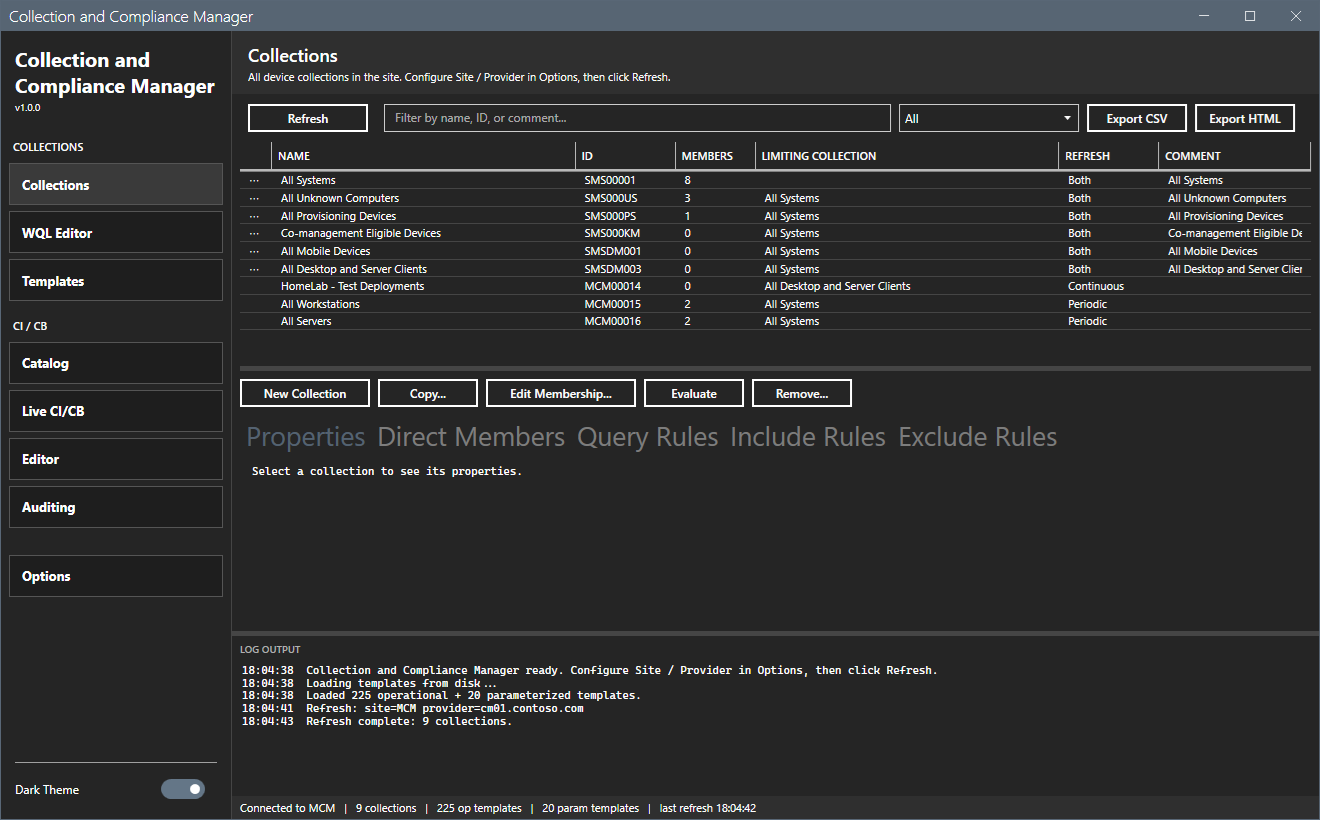
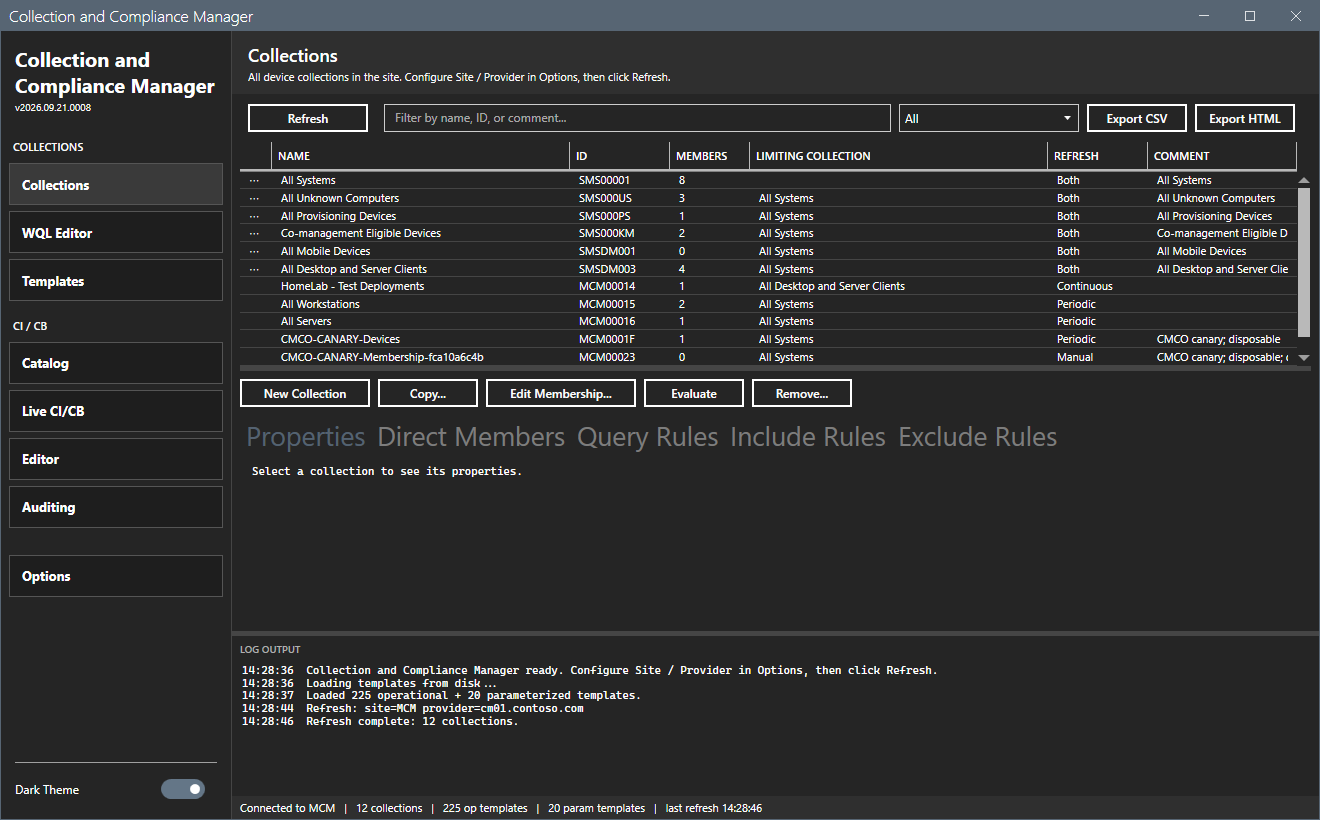
Use the launcher site code and provider when none is saved; update the screenshots; 2026.09.21.0008

diff --git a/CHANGELOG.md b/CHANGELOG.md
@@ -1,5 +1,15 @@
 # Changelog
 
+## [2026.09.21.0008] - 2026-09-21
+
+### Fixed
+
+- Use the site code and provider from the suite launcher when the tool has none saved.
+
+### Changed
+
+- Update the README screenshots.
+
 ## [2026.09.21.0007] - 2026-09-21
 
 ### Changed
